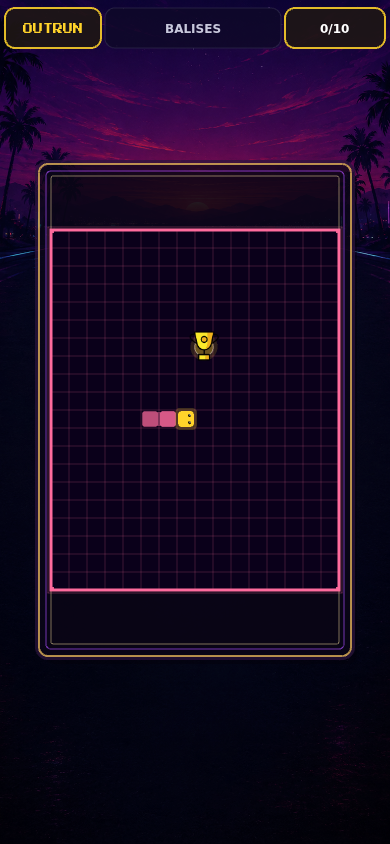
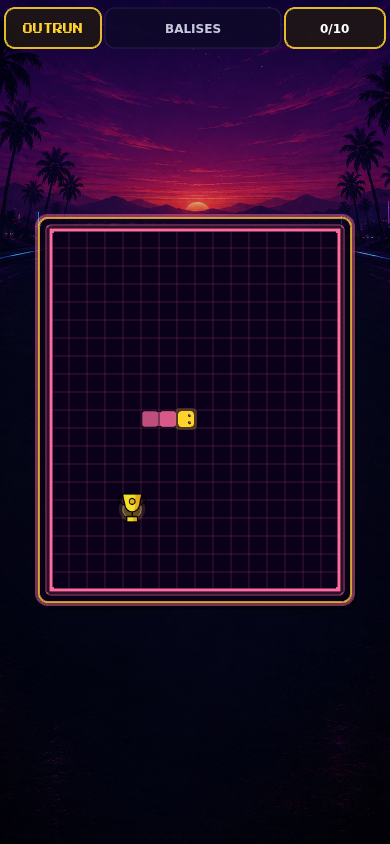
Fix universe board panel fit and colors

Changed region(s): [[0.0923, 0.1848, 0.9231, 0.8009], [0.4923, 0.3697, 0.5538, 0.4313], [0.3077, 0.5853, 0.3692, 0.6161]]

diff --git a/src/scenes/GameScene.ts b/src/scenes/GameScene.ts
@@ -55,7 +55,6 @@ export class GameScene extends Phaser.Scene {
   private gameOver = false;
   private cleared = false;
   private layout!: GridLayout;
-  private visualBoardLayout!: GridLayout;
   private gridCols = GRID_COLS;
   private gridRows = GRID_ROWS;
 
@@ -153,8 +152,8 @@ export class GameScene extends Phaser.Scene {
     this.gridCols = this.levelConfig.universeId === 'castle' ? CASTLE_GRID_COLS : GRID_COLS;
     this.gridRows = this.levelConfig.universeId === 'castle' ? CASTLE_GRID_ROWS : GRID_ROWS;
     this.grid = new Grid(this.gridCols, this.gridRows);
-    this.visualBoardLayout = this.computeCastleReferenceLayout(width, height);
-    this.layout = this.computeActiveGridLayout(this.visualBoardLayout, this.gridCols, this.gridRows);
+    const castleReferenceLayout = this.computeCastleReferenceLayout(width, height);
+    this.layout = this.computeActiveGridLayout(castleReferenceLayout, this.gridCols, this.gridRows);
 
     // 906 — compute asset keys before renderer creation
     const uid        = this.levelConfig.universeId;
@@ -257,12 +256,16 @@ export class GameScene extends Phaser.Scene {
     }
 
     const gridBounds = new Phaser.Geom.Rectangle(
-      this.visualBoardLayout.x,
-      this.visualBoardLayout.y,
-      this.visualBoardLayout.cellSize * this.visualBoardLayout.cols,
-      this.visualBoardLayout.cellSize * this.visualBoardLayout.rows,
+      this.layout.x,
+      this.layout.y,
+      this.layout.cellSize * this.layout.cols,
+      this.layout.cellSize * this.layout.rows,
     );
-    drawCastleRuntimeBoardPanel(this, gridBounds);
+    drawCastleRuntimeBoardPanel(this, gridBounds, {
+      bg: this.colorBg,
+      primary: this.colorPrimary,
+      accent: this.colorAccent,
+    });
 
     // Grid is STATIC — draw once here, never again in the game loop
     this.gridRenderer.draw(uid === 'castle' ? 0x090613 : this.colorBg, this.colorPrimary);

diff --git a/src/ui/CastleRuntimeLayering.ts b/src/ui/CastleRuntimeLayering.ts
@@ -13,6 +13,11 @@ export interface CastleRuntimeLayerDebugInfo {
 export function drawCastleRuntimeBoardPanel(
   scene: Phaser.Scene,
   gridBounds: Phaser.Geom.Rectangle,
+  colors: { bg: number; primary: number; accent: number } = {
+    bg: 0x0b0618,
+    primary: 0x9b59b6,
+    accent: 0xf6c45c,
+  },
 ): Phaser.GameObjects.Graphics {
   const pad = Math.max(10, Math.floor(gridBounds.width * 0.042));
   const radius = Math.max(8, Math.floor(pad * 0.8));
@@ -24,17 +29,17 @@ export function drawCastleRuntimeBoardPanel(
 
   panel.fillStyle(0x000000, 0.22);
   panel.fillRoundedRect(gridBounds.x - 4, gridBounds.y - 4, gridBounds.width + 8, gridBounds.height + 8, Math.max(6, radius - 5));
-  panel.fillStyle(0x020009, 0.42);
+  panel.fillStyle(0x000000, 0.42);
   panel.fillRoundedRect(x + 6, y + 8, w, h, radius);
-  panel.fillStyle(0x0b0618, 0.74);
+  panel.fillStyle(colors.bg, 0.74);
   panel.fillRoundedRect(x, y, w, h, radius);
-  panel.lineStyle(4, 0x2b143d, 0.72);
+  panel.lineStyle(4, colors.primary, 0.46);
   panel.strokeRoundedRect(x - 2, y - 2, w + 4, h + 4, radius + 2);
-  panel.lineStyle(2, 0xf6c45c, 0.72);
+  panel.lineStyle(2, colors.accent, 0.72);
   panel.strokeRoundedRect(x, y, w, h, radius);
-  panel.lineStyle(1, 0xa94cff, 0.66);
+  panel.lineStyle(1, colors.primary, 0.66);
   panel.strokeRoundedRect(x + 7, y + 7, w - 14, h - 14, Math.max(3, radius - 4));
-  panel.lineStyle(1, 0xffe6a0, 0.48);
+  panel.lineStyle(1, colors.accent, 0.48);
   panel.strokeRoundedRect(x + 12, y + 12, w - 24, h - 24, Math.max(2, radius - 7));
 
   return panel;

diff --git a/reports/patch-1091/docs/apply-castle-board-size-to-all-universes.md b/reports/patch-1091/docs/apply-castle-board-size-to-all-universes.md
@@ -13,6 +13,8 @@ Cette empreinte devient la référence parce qu'elle donne le plateau le plus in
 |---|---|---|
 | `src/scenes/GameScene.ts` | Séparation entre grille logique active et empreinte visuelle Castle 16x26. | Appliquer la présence visuelle Castle partout sans modifier les mécaniques. |
 | `src/scenes/GameScene.ts` | Suppression des maps d'exceptions de sizing par univers, y compris OutRun. | Castle devient la règle de référence commune. |
+| `src/scenes/GameScene.ts` | Cadre décoratif calé sur la grille active. | Éviter les bandes vides quand un univers reste en 16x20. |
+| `src/ui/CastleRuntimeLayering.ts` | Couleurs de panneau paramétrées par palette univers. | Le cadre complet doit reprendre les couleurs de l'univers courant. |
 | `reports/patch-1091/capture-patch-1091.mjs` | Captures ciblées et CSV de comparaison. | Produire les preuves visuelles demandées. |
 
 ## Règle finale
@@ -20,23 +22,23 @@ Les niveaux normaux utilisent leur grille logique existante. Castle reste en 16x
 
 Les boss utilisent la même règle que les niveaux normaux de leur univers.
 
-Les univers avec une grille logique 16x20 sont centrés dans l'empreinte visuelle Castle 16x26, avec la même taille de cellule que Castle. Les coordonnées, collisions, spawns et mécaniques restent sur la grille logique active.
+Les univers avec une grille logique 16x20 utilisent la même taille de cellule que Castle. Le cadre décoratif suit la grille active 16x20 pour éviter un panneau 16x26 avec des bandes vides. Les coordonnées, collisions, spawns et mécaniques restent sur la grille logique active.
 
-OutRun n'a plus d'exception de largeur ou de biais vertical. Son cockpit est traité par la même empreinte visuelle Castle; la validation capture vérifie le cadrage.
+OutRun n'a plus d'exception de largeur ou de biais vertical. Son cockpit est traité par la même règle de cellule et le cadre prend les couleurs OutRun.
 
 ## Comparaison
 | Niveau | Univers | Type | Grille | Plateau visuel | Cellule | Référence appliquée |
 |---|---|---|---|---|---|---|
 | castle_normal | castle | normal | 16x26 | 288x468 | 18 | oui |
-| sonic_normal | sonic | normal | 16x20 | 288x468 | 18 | oui |
-| paperboy_normal | paperboy | normal | 16x20 | 288x468 | 18 | oui |
-| outrun_normal | outrun | normal | 16x20 | 288x468 | 18 | oui |
-| sonic_boss | sonic | boss | 16x20 | 288x468 | 18 | oui |
+| sonic_normal | sonic | normal | 16x20 | 288x360 | 18 | oui |
+| paperboy_normal | paperboy | normal | 16x20 | 288x360 | 18 | oui |
+| outrun_normal | outrun | normal | 16x20 | 288x360 | 18 | oui |
+| sonic_boss | sonic | boss | 16x20 | 288x360 | 18 | oui |
 
 ## Exceptions
 Aucune exception de sizing visuel par univers ne reste. La seule différence conservée est la grille logique Castle 16x26 contre 16x20 pour les autres univers, afin de ne pas changer les mécaniques.
 
 ## Risques
 - Les backgrounds non-Castle ont maintenant un plateau plus étroit et plus cadré verticalement.
-- La grille active 16x20 occupe le centre de l'empreinte 16x26, ce qui peut demander une validation mobile réelle.
+- Les univers 16x20 gardent la cellule Castle, mais pas la hauteur 26 rangées, pour éviter un cadre vide non jouable.
 - Les petits écrans mobiles restent à vérifier après déploiement.

diff --git a/reports/patch-1091/review.md b/reports/patch-1091/review.md
@@ -4,10 +4,11 @@
 Appliquer la taille de plateau Castle comme référence à tous les univers.
 
 ## Résultat
-La règle finale sépare la grille logique de l'empreinte visuelle. Castle fournit une référence 16x26 pour le panneau/plateau visible, et les univers 16x20 sont centrés dans cette empreinte avec la même taille de cellule. Les mécaniques et collisions restent sur la grille logique active.
+La règle finale conserve la cellule Castle comme référence. Castle reste en 16x26; les univers 16x20 gardent leur grille logique et utilisent un cadre décoratif calé sur la grille active, sans bandes vides. Le cadre complet reprend maintenant les couleurs de la palette univers.
 
 ## Fichiers modifiés
 - `src/scenes/GameScene.ts`
+- `src/ui/CastleRuntimeLayering.ts`
 - `reports/patch-1091/capture-patch-1091.mjs`
 - `reports/patch-1091/docs/apply-castle-board-size-to-all-universes.md`
 - `reports/patch-1091/logs/board-size-comparison.csv`
